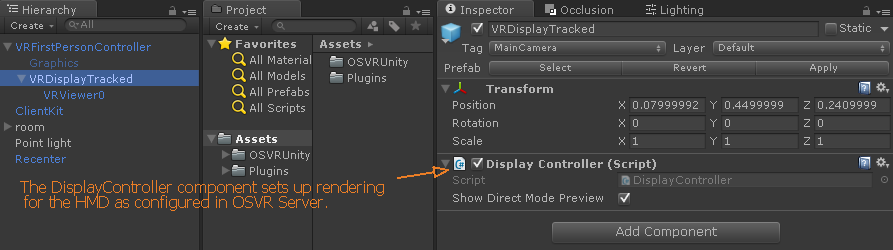
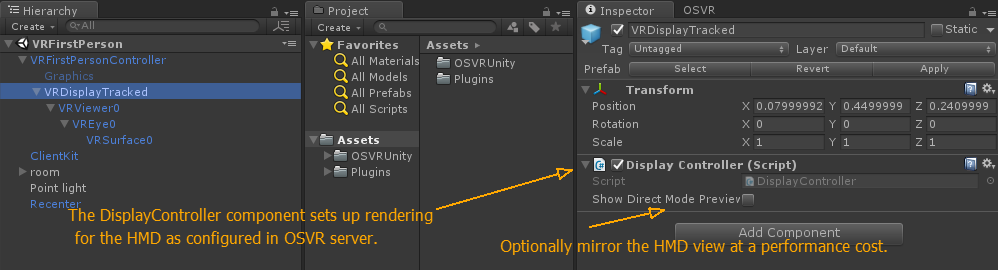
Updated GettingStarted doc and images.

diff --git a/GettingStarted.md b/GettingStarted.md
@@ -1,6 +1,6 @@
 # OSVR for Unity Developers
 
-> Last Updated August 11, 2016
+> Last Updated October 20, 2016
 
 ## Why use OSVR?
 
@@ -10,13 +10,11 @@ Game developers can focus on what they want to do with the data, as opposed to h
 
 For a more complete introduction to OSVR, please visit: http://osvr.github.io/whitepapers/introduction_to_osvr/
 
-The rest of this document assumes you're ready to start developing VR applications in Unity with the OSVR-Unity plugin. We also assume you are using a Hacker Development Kit
-
-Before we jump into OSVR-Unity, you'll need to install the OSVR SDK:
+The rest of this document assumes you're ready to start developing VR applications in Unity with the OSVR-Unity plugin.
 
 ## Install OSVR SDK
 
-**Download and install the latest OSVR SDK installer from: http://osvr.github.io/using/**
+**Download and install the latest OSVR SDK installer from: http://access.osvr.com/binary/osvr-sdk-installer**
 
 This installer creates a directory: "C:\Program Files\OSVR\"
 
@@ -24,7 +22,7 @@ We can find **osvr_server.exe** in the directory: "C:\Program Files\OSVR\Runtime
 
 ## OSVR Server
 
-When using OSVR, OSVR server needs to be running in order for your Unity application to receive data from connected devices.
+When using OSVR, **OSVR server needs to be running in order for your application to receive data from connected devices.**
 There are multiple ways to start the server (pick one):
 
 - As of July 14, 2016 (OSVR-Unity Build 421), the server will launch automatically when your Unity application is launched on Windows. This option is configurable on the ClientKit prefab if you wish to disable server-autostart. This feature is not yet available on Android. 
@@ -35,7 +33,7 @@ There are multiple ways to start the server (pick one):
 
 Since the configuration file is crucial to enabling functionality in OSVR, we will explore it in more detail later.
 
-This document will assume you’re using an HDK. If you need help with HDK setup, please visit the HDK Unboxing and Starting Guide: https://github.com/OSVR/OSVR-General/wiki/HDK-Unboxing-and-Getting-Started
+This document will assume you’re using a Hacker Development Kit HMD, HDK 1.x or HDK2. If you need help with HDK setup, please visit the HDK Unboxing and Starting Guide: https://github.com/OSVR/OSVR-General/wiki/HDK-Unboxing-and-Getting-Started
 
 Connect the device and launch **osvr_server.exe**. If you see this message:
 
@@ -58,7 +56,7 @@ Let’s examine the OSVR-Unity plugin. You can view the source code at https://g
 
 or get OSVR-Unity from the Unity Asset Store: http://u3d.as/g8N. This version may be slightly behind the link above.
 
-* Create a new Unity (4.6 or higher) project.
+* Create a new Unity project. OSVR works with Unity 4.6 or higher, but we recommend Unity 5.3 or higher.
 * Import OSVRUnity.unitypackage into the project.
 * Open VRFirstPerson.unity scene. This scene demonstrates a first-person controller VR setup.
 * Optionally open the OSVR Editor window from the Unity menu bar (pictured below). You can use this to quickly change config files, launch utilities, and access links to documentation.
@@ -79,8 +77,14 @@ This prefab contains a DisplayController component, which constructs our tracked
 
 Press Play. The stereo camera rig is created at runtime and updates its orientation as the HDK moves around. With my HDK connected as an extended display, I can click-and-drag the Game View to the HDK display and select Maximize on Play to view the game in VR.
 
+### VRViewer
+A child of VRDisplayTracked, VRViewer is the "head" in our VR setup. It moves around with the HMD. If you want to know which direction the user is looking, use this transform's forward direction.
 
-![OSVR-Unity SBS](https://github.com/OSVR/OSVR-Unity/blob/master/images/osvr_unity_sbs.png?raw=true)
+### VREye
+A child of VRViewer, represents the position and rotation of the user's eye(s). In a typical, two eye configuration, the second eye will be created at runtime. VREye does not have a camera component, delegating that responsiblity to its VRSurface child.
+
+### VRSurface
+A child of VREye, it has a camera component and is responsible for rendering each eye's view. Any image effects should be attached to this gameobject. Any attached scripts will be duplicated to any additional eye created at runtime. 
 
 ### Recenter
 
@@ -96,10 +100,64 @@ This prefab provides very similar controls to the Unity first-person controller 
 
 That covers the basics! There are examples of tracked controllers, eyetrackers, and locomotion in other example scenes (see TrackerView.unity). If you want to enable features like positional tracking and Direct Mode rendering, that all happens in the server configuration file.
 
-## OSVR Server Configuration - Adding Positional Tracking and RenderManager 
-Want to enable positional tracking? Enable DirectMode rendering support? Use a device plugin? All of this requires some setup in your server configuration file. Many sample configuration files are provided in the sample-configs directory of the Core Snapshot. Some devices, such as the Hacker Development Kit (HDK) and Razer Hydra can be auto-detected and will work with a default (empty) config file.
+## RenderManager and Unity-Rendering Plugin
+RenderManager provides a number of additional functions in support of VR rendering. It adds features such as Direct Mode support, distortion correction, client-side predictive tracking, asynchronous time warp, overfill, and oversampling. For a more information about OSVR-RenderManager, including an overview of configuration options, visit: https://github.com/sensics/OSVR-RenderManager
 
-**osvr_server.exe** can be run from the command line with an optional parameter for the server config file. If no parameter is specified, **osvr_server_config.json** will be used instead. Since the HDK is detected automatically, we don’t need to edit **osvr_server_config.json** in order to obtain tracking data from the HDK. If we want to enable positional tracking, however, we’ll need to edit the config file.
+For a more information about the Unity Rendering Plugin which enables OSVR-RenderManager in OSVR-Unity projects, visit: https://github.com/OSVR/OSVR-Unity-Rendering/blob/master/README.md
+
+### Enabling RenderManager in Unity
+RenderManager support is enabled in the server config file by adding a "renderManagerConfig" section:
+![OSVR-Unity RenderManager Config](https://github.com/OSVR/OSVR-Unity/blob/master/images/osvr_rendermanager_config.png?raw=true)
+
+The following DLLs included in the unitypackage are also required for RenderManager support and are found in Assets/Plugins/x86_64 or Assets/Plugins/x86:
+* glew32.dll
+* SDL2.dll
+* osvrUnityRenderingPlugin.dll -- built from https://github.com/OSVR/OSVR-Unity-Rendering
+* osvrRenderManager.dll
+* D3Dcompiler_47.dll -- Windows 7 only
+
+It is possible to update RenderManager features in an existing Unity project by only replacing **osvrUnityRenderingPlugin.dll** and **osvrRenderManager.dll**. Most users will not need to do this, but it is good to know.
+
+## Recommended OSVR Server Configs -- HDK2
+If you're getting started with the HDK2, these are good configuration files to start with. To use these configurations, replace the contents of osvr_server_config.json with the contents of the files below, which can also be found in the sample-configs directory. Alternatively, drag-and-drop a server config file onto osvr_server.exe to start the server with that configuration.
+### RenderManager - Direct mode, orientation only, client-side prediction
+https://github.com/OSVR/OSVR-Core/blob/master/apps/sample-configs/osvr_server_config.renderManager.HDKv2.0.direct.json
+### RenderManager - Extended mode, orientation only, client-side prediction
+https://github.com/OSVR/OSVR-Core/blob/master/apps/sample-configs/osvr_server_config.renderManager.HDKv2.0.extended.json
+
+For more information about client-side prediction, see: https://github.com/OSVR/OSVR-Docs/blob/master/Configuring/PredictiveTracking.md
+
+### Optimizing RenderManager in Unity
+There are a number of configuration options available when using RenderManager. We’ve found that settings may vary per application, so developers should experiment until an acceptable balance of visual quality and fast rendering is achieved. Generally, the configurations above are a good starting point. 
+
+If judder is present (smearing and double-images), try increasing the "maxMsBeforeVsync" setting (0, 3, 5, etc.). This value should be no larger than the duration of one frame in milliseconds.
+
+See the RenderManager optimization document for more information: https://github.com/sensics/OSVR-RenderManager/blob/master/doc/renderingOptimization.md
+
+### Direct Mode Preview
+You can see the game view mirrors the HDK display because the “Show Direct Mode Preview” option is checked on the VRDisplaytTracked prefab. It is a rather suboptimal implementation of mirror mode, and will soon be replaced by an equivalent RenderManager feature.
+
+![OSVR-Unity Direct Mode Preview](https://github.com/OSVR/OSVR-Unity/blob/master/images/osvr_unity_directmode_preview.png?raw=true)
+
+### Troubleshooting RenderManager in Unity
+One issue users could run into is a "Failed to create RenderManager" error message in the Unity debug console. This could happen if you are trying to run in direct mode, but your machine does not support direct mode. It could also happen if the USB or HDMI cable is unplugged, or there could be an incompatibility with the version of RenderManager in your project and your currently installed graphics drivers.
+
+Here are some general troubleshooting steps for fixing "Failed to create RenderManager" and other common issues:
+- Update to the latest RenderManager DLLs which are included with the Unity packages here: http://access.osvr.com/binary/osvr-unity
+- Use a known-working configuration file with orientation only. See the "Recommended OSVR Server Configs" section above.
+- Update your graphics card drivers.
+- HDK must be in direct mode already for a game to work in direct mode, it won't switch to direct mode automatically based on the configuration. The same goes for extended mode. Use EnableOSVRDirectMode.exe and DisableOSVRDirectMode.exe for switching between direct and extended mode. You know if you're in direct mode if the HDK disappears from Windows display settings.
+- Run the RenderManager examples included with the SDK, such as RenderManagerD3DExample3D.exe. If these examples don't work, neither will RenderManager in Unity.
+- If the RenderManager examples work but nothing displays (you keep seeing "Rendering at 90fps..." messages but no image), try switching to extended mode, power cycle (unplug the power and HMD from beltbox, wait a few seconds, replug), then switch back to direct mode.
+- If USB disconnects between direct mode sessions, power cycle. If it happens frequently, try a different firmware (1.01 or 1.97). Use OSVR Control to change firmware: http://sensics.com/software/OSVRControl-SW/publish.htm
+- With firmware 1.97, you can avoid the USB disconnect issue by keeping OSVR Control open and connected to the COM Port. This is the recommended option for now.
+
+Follow this guide for more RenderManager troubleshooting: https://github.com/OSVR/OSVR-Docs/blob/master/Troubleshooting/RenderManager.md#troubleshooting-rendermanager-in-unity.
+
+## OSVR Server Configuration - Adding Positional Tracking
+Positional tracking, like RenderManager, requires some setup in your server configuration file. Many sample configuration files are provided in the sample-configs directory of the OSVR SDK installation that include positional tracking.
+
+For this example, we'll use a configuration for HDK 1.3 (which also works for 1.4).
 
 Copy the contents of **osvr_server_config.HDK13DirectMode.sample.json** into **osvr_server_config.json**.
 
@@ -112,6 +170,8 @@ Let’s examine our new **osvr_server_config.json**:
 These two lines determine which HMD display to use, and which RenderManager config file to use. If you didn’t want positional tracking, these are the only two lines you need to enable RenderManager with the HDK 1.3.
 
 ![osvr_server_config snippet](https://github.com/OSVR/OSVR-Unity/blob/master/images/osvr_server_config_pos_rm_snippet.png?raw=true)
+
+Note that the "display" and "renderManagerConfig" entries are referencing external files. This is not required. It only makes the file shorter and easier to read. You may prefer to include the contents of the referenced files in the server config file. See the Recommended HDK2 configurations above for examples of this.
 
 The rest of the file deals with video-based tracking and sensor fusion. There are options for showing a camera debug view (impacts game performance if this is running in the background), enabling or disabling the LEDs located on the back of the head-strap, changing head circumference, and selecting a calibration file.
 
@@ -127,40 +187,8 @@ Let’s run the server and check Tracker View again to see if we’re getting po
 
 Yes! The gizmo is no longer fixed at the origin, and moves around with the HMD. 
 
-## RenderManager and Unity-Rendering Plugin
-RenderManager provides a number of additional functions in support of VR rendering. It adds features suc has Direct Mode support, distortion correction, client-side predictive tracking, asynchronous time warp, overfill, and oversampling. For a more information about OSVR-RenderManager, including an overview of configuration options, visit: https://github.com/sensics/OSVR-RenderManager
-
-For a more information about the Unity Rendering Plugin which enables OSVR-RenderManager in OSVR-Unity projects, visit: https://github.com/OSVR/OSVR-Unity-Rendering/blob/master/README.md
-
-### Enabling RenderManager in Unity
-The following DLLs included in the unitypackage are required for RenderManager support are found in Assets/Plugins/x86_64 or Assets/Plugins/x86:
-* glew32.dll
-* SDL2.dll
-* osvrUnityRenderingPlugin.dll -- built from https://github.com/OSVR/OSVR-Unity-Rendering
-* osvrRenderManager.dll
-* D3Dcompiler_47.dll -- Windows 7 only, available in the Unity install directory (C:/Program Files/Unity/Editor/Data/Tools64/)
-
-It is possible to update RenderManager features in an existing Unity project by only replacing **osvrUnityRenderingPlugin.dll** and **osvrRenderManager.dll**. Most users will not need to do this, but it is good to know.
-
-With the RenderManager DLLs in our project and a renderManagerConfig specified in the server config (also the default), when we run the server and press play, we are now in DirectMode with positional tracking! 
-
-### Direct Mode Preview
-You can see the game view mirrors the HDK display because the “Show Direct Mode Preview” option is checked on the VRDisplaytTracked prefab. It is a rather suboptimal implementation of mirror mode, and will soon be replaced by an equivalent RenderManager feature.
-
-![OSVR-Unity Direct Mode Preview](https://github.com/OSVR/OSVR-Unity/blob/master/images/osvr_unity_directmode_preview.png?raw=true)
-
-### Optimizing RenderManager in Unity
-There are a number of configuration options available when using RenderManager. We’ve found that settings may vary per application, so developers should experiment until an acceptable balance of visual quality and fast rendering is achieved. Generally, the configuration below is a good starting point. See the RenderManager document for more information: https://github.com/OSVR/OSVR-Unity-Rendering/blob/master/README.md
-
-![OSVR-Unity RenderManager Config](https://github.com/OSVR/OSVR-Unity/blob/master/images/osvr_rendermanager_config.png?raw=true)
-
-### Troubleshooting RenderManager in Unity
-One issue users could run into is a "Failed to create RenderManager" error message in the Unity debug console. This could happen if you are trying to run in direct mode, but your machine does not support direct mode. It could also happen if the USB or HDMI cable is unplugged, or there could be an incompatibility with the version of RenderManager in your project and your currently installed graphics drivers.
-
-Follow this guide to troubleshoot RenderManager: https://github.com/OSVR/OSVR-Docs/blob/master/Troubleshooting/RenderManager.md#troubleshooting-rendermanager-in-unity.
-
 ## Quality Settings
-Quality settings will differ per machine/graphics card capabilities. Make sure V Sync Count is set to Don’t Sync. Otherwise, we generally recommend that using as much antialiasing as can be afforded without negatively affecting performance. Disable shadows unless your game mechanics demand it. Use Lightmapping instead of real-time lights. Use occlusion culling.
+Quality settings will differ per machine/graphics card capabilities. Make sure V Sync Count is set to Don’t Sync. Otherwise, we generally recommend using as much antialiasing as can be afforded without negatively affecting performance. Disable shadows unless your game mechanics demand it. Use Lightmapping instead of real-time lights. Use occlusion culling.
 
 ![OSVR-Unity Quality Settings](https://github.com/OSVR/OSVR-Unity/blob/master/images/osvr_unity_quality.png?raw=true)
 
